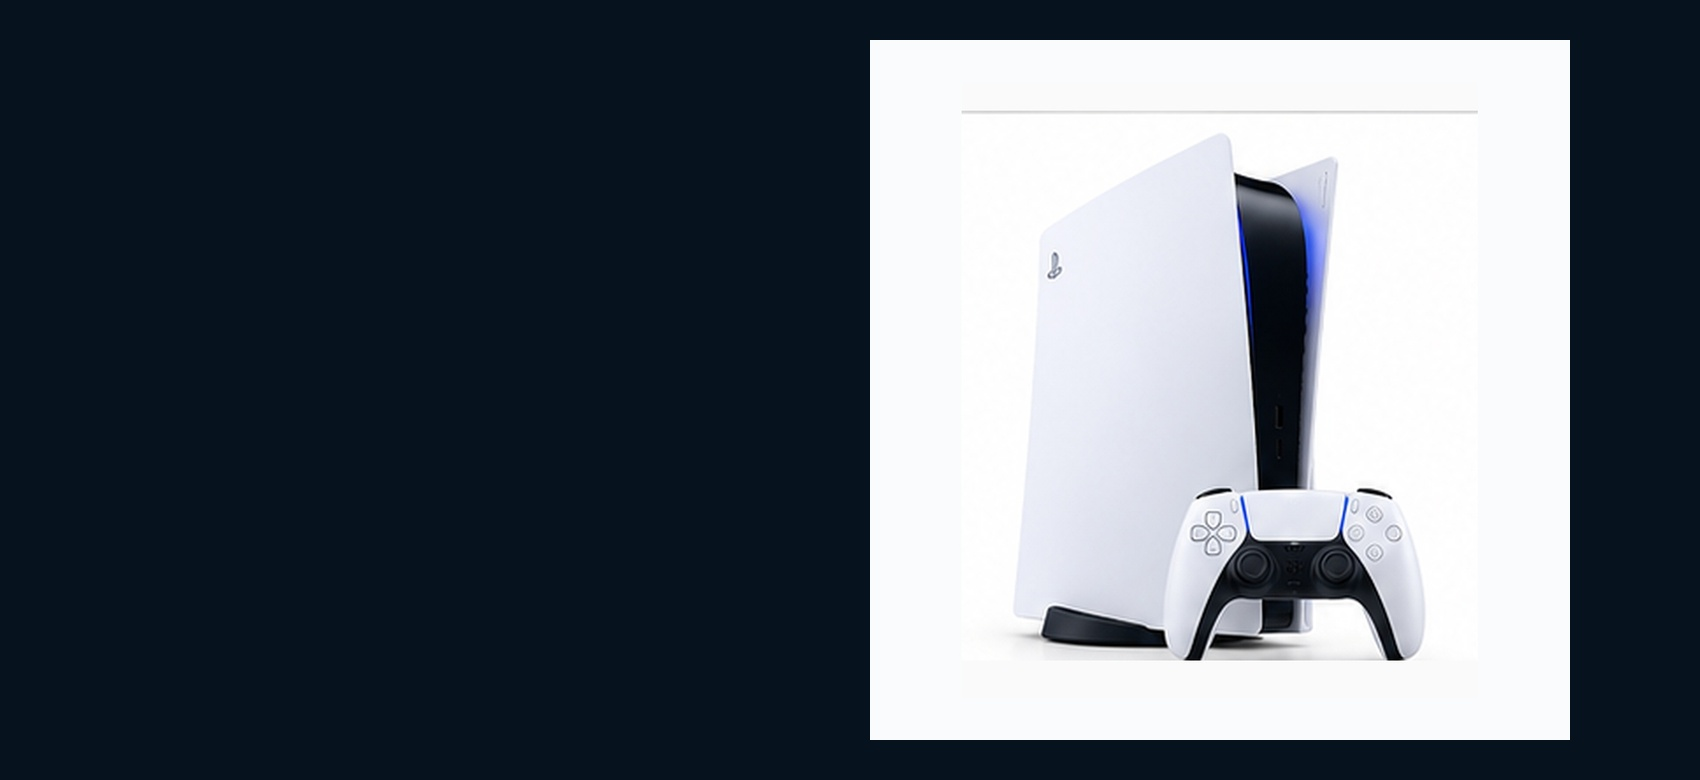
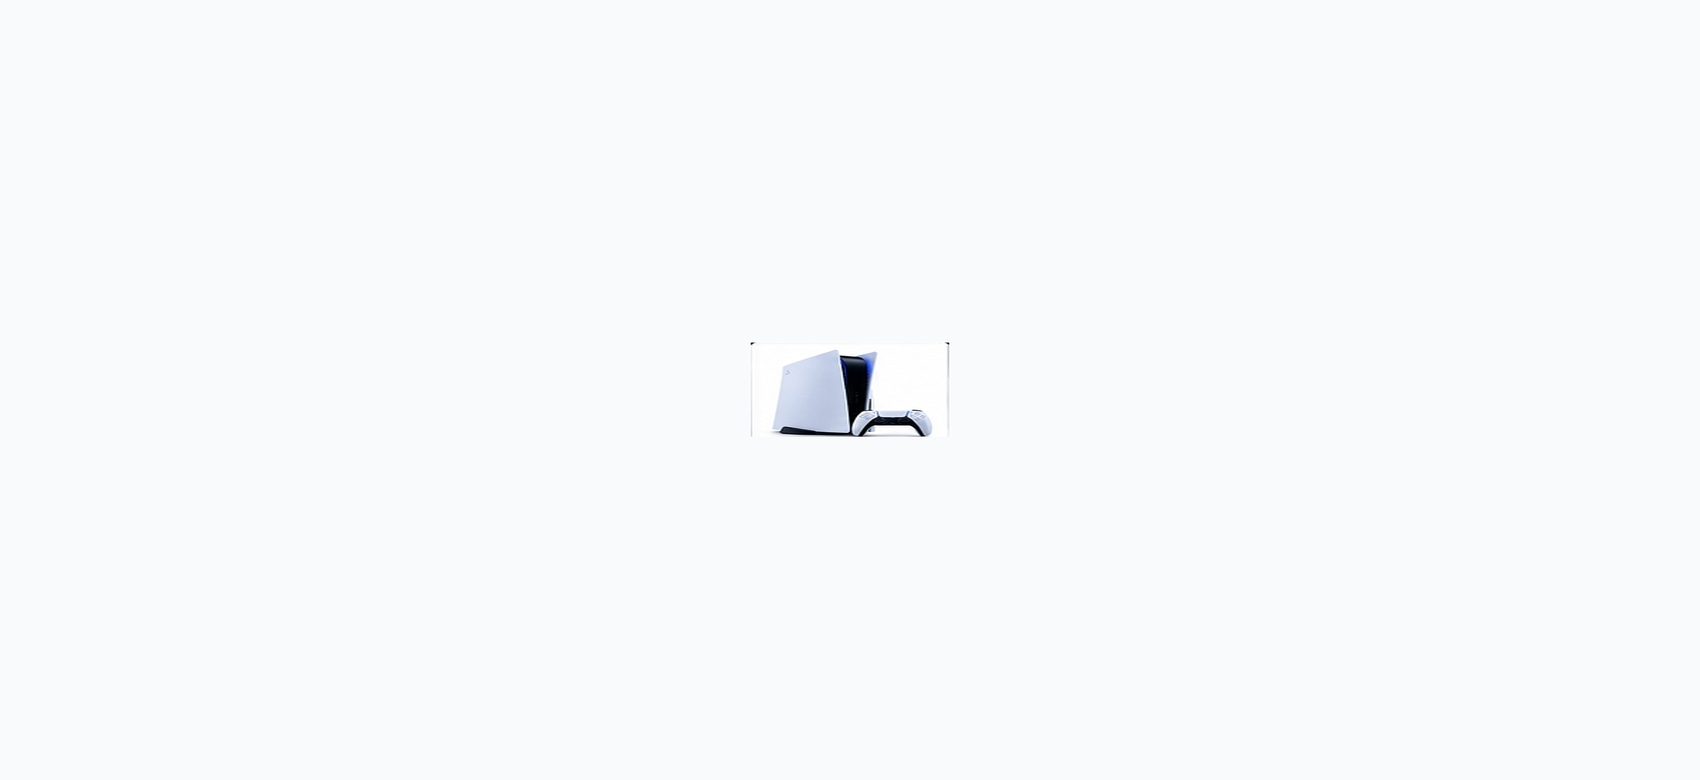
Add files via upload

diff --git a/index.html b/index.html
@@ -1,8 +1,8 @@
 <!doctype html><html lang="en"><head><meta charset="utf-8"><meta name="viewport" content="width=device-width,initial-scale=1"><title>Home | NEXORA GAMES</title><meta name="description" content="NEXORA GAMES — consoles, games, controllers, gaming gear and accessories."><link rel="stylesheet" href="style.css"></head><body><div class="ticker"><span>Free Shipping on Orders Over $50</span><span>Play More. Live Better.</span><span><a href="contact.html">Support</a> · +1 (800) 555-0196 · support@nexoragames.com</span></div><header class="header"><div class="head"><a class="logo" href="index.html"><img src="assets/images/nexora-games-logo.png" alt="NEXORA GAMES"></a><nav><a href="index.html">Home</a><a href="shop.html">Consoles</a><a href="shop.html?cat=Video Games">Games</a><a href="shop.html?cat=Controllers">Controllers</a><a href="shop.html?cat=Accessories">Accessories</a><a href="shop.html?cat=PC Gaming">PC Gaming</a><a href="shop.html?cat=Deals">Deals</a><a href="collections.html">Collections</a><a href="contact.html">Support</a></nav><div class="tools"><div class="search"><input id="search" placeholder="Search games, consoles..."><button>⌕</button></div><a href="wishlist.html">♡</a><a href="cart.html">🛒 <small id="cartCount">0</small></a></div></div></header><main>
 <section class="hero"><div class="hero-copy"><div class="eyebrow">PLAY MORE. LIVE BETTER.</div><h1>Next Level<br><em>Gaming Awaits.</em></h1><p>Consoles, video games, controllers, accessories, and everything you need for the way you play.</p><div class="actions"><a class="btn" href="shop.html">Shop Now →</a><a class="outline" href="shop.html?cat=Deals">Explore Deals</a></div><div class="trust"><span>Free Shipping $50+</span><span>Secure Payment</span><span>24/7 Support</span><span>Easy Returns</span></div></div><div class="hero-image"><img src="assets/images/hero.jpg" alt="NEXORA GAMES gaming setup"></div></section>
-<section class="category-section"><div class="section-head"><div><div class="eyebrow">SHOP BY CATEGORY</div><h2>Everything gamers need.</h2><p>From consoles and games to racing, PC, streaming, and accessories.</p></div><a class="text-link" href="shop.html">View All →</a></div><div class="category-grid"><a class="cat" href="shop.html?cat=Consoles"><img src="assets/images/category-1.jpg" alt="Consoles"><strong>Consoles</strong><span>Next-gen systems</span></a><a class="cat" href="shop.html?cat=Video Games"><img src="assets/images/category-2.jpg" alt="Video Games"><strong>Video Games</strong><span>New worlds</span></a><a class="cat" href="shop.html?cat=Controllers"><img src="assets/images/category-3.jpg" alt="Controllers"><strong>Controllers</strong><span>Play your way</span></a><a class="cat" href="shop.html?cat=Headsets"><img src="assets/images/category-4.jpg" alt="Headsets"><strong>Headsets</strong><span>Immersive audio</span></a><a class="cat" href="shop.html?cat=PC Gaming"><img src="assets/images/category-5.jpg" alt="PC Gaming"><strong>PC Gaming</strong><span>Build your rig</span></a><a class="cat" href="shop.html?cat=Racing"><img src="assets/images/category-6.jpg" alt="Racing"><strong>Racing</strong><span>Drive harder</span></a><a class="cat" href="shop.html?cat=Streaming"><img src="assets/images/category-7.jpg" alt="Streaming"><strong>Streaming</strong><span>Create more</span></a><a class="cat" href="shop.html?cat=Accessories"><img src="assets/images/category-8.jpg" alt="Accessories"><strong>Accessories</strong><span>Level up</span></a></div></section>
-<section class="promo-row"><a href="shop.html?cat=Consoles" class="promo"><img src="assets/images/product-1.jpg" alt="Consoles"><div><span>CONSOLES</span><h3>Start your next generation.</h3><small>Shop consoles →</small></div></a><a href="shop.html?cat=Video Games" class="promo"><img src="assets/images/product-6.jpg" alt="Video games"><div><span>GAMES</span><h3>Discover your next world.</h3><small>Shop games →</small></div></a><a href="shop.html?cat=Accessories" class="promo"><img src="assets/images/product-7.jpg" alt="Accessories"><div><span>ACCESSORIES</span><h3>Level up your setup.</h3><small>Shop accessories →</small></div></a></section>
-<section class="best"><div class="section-head"><div><div class="eyebrow">FEATURED PRODUCTS</div><h2>Popular right now.</h2><p>Gaming essentials selected for the next session.</p></div><a class="text-link" href="products.html">View All Products →</a></div><div class="product-grid"><article class="card"><span class="badge">BEST SELLER</span><button class="wish" onclick="toggleWish(0)">♡</button><a class="photo" href="product.html?id=0"><img src="assets/images/product-1.jpg" alt="NEXORA PS5 Console" loading="lazy"></a><div class="info"><div class="rating">★★★★★ <span>(61)</span></div><h3>NEXORA PS5 Console</h3><div class="meta">PlayStation · Next-gen gaming</div><div class="row"><strong>$499.99</strong><button onclick="addToCart(0)">Add to Cart</button></div></div></article><article class="card"><span class="badge">NEW</span><button class="wish" onclick="toggleWish(1)">♡</button><a class="photo" href="product.html?id=1"><img src="assets/images/product-2.jpg" alt="NEXORA Xbox Series X" loading="lazy"></a><div class="info"><div class="rating">★★★★★ <span>(104)</span></div><h3>NEXORA Xbox Series X</h3><div class="meta">Xbox · Power your dreams</div><div class="row"><strong>$499.99</strong><button onclick="addToCart(1)">Add to Cart</button></div></div></article><article class="card"><span class="badge">POPULAR</span><button class="wish" onclick="toggleWish(2)">♡</button><a class="photo" href="product.html?id=2"><img src="assets/images/product-3.jpg" alt="NEXORA Switch OLED" loading="lazy"></a><div class="info"><div class="rating">★★★★★ <span>(147)</span></div><h3>NEXORA Switch OLED</h3><div class="meta">Nintendo · Play anywhere</div><div class="row"><strong>$349.99</strong><button onclick="addToCart(2)">Add to Cart</button></div></div></article><article class="card"><span class="badge">BEST SELLER</span><button class="wish" onclick="toggleWish(3)">♡</button><a class="photo" href="product.html?id=3"><img src="assets/images/product-4.jpg" alt="NEXORA Handheld Pro" loading="lazy"></a><div class="info"><div class="rating">★★★★★ <span>(190)</span></div><h3>NEXORA Handheld Pro</h3><div class="meta">Handheld · Portable gaming</div><div class="row"><strong>$299.99</strong><button onclick="addToCart(3)">Add to Cart</button></div></div></article><article class="card"><span class="badge">NEW</span><button class="wish" onclick="toggleWish(4)">♡</button><a class="photo" href="product.html?id=4"><img src="assets/images/product-5.jpg" alt="Console Starter Bundle" loading="lazy"></a><div class="info"><div class="rating">★★★★★ <span>(233)</span></div><h3>Console Starter Bundle</h3><div class="meta">Multi · Ready to play</div><div class="row"><strong>$549.99</strong><button onclick="addToCart(4)">Add to Cart</button></div></div></article><article class="card"><span class="badge">POPULAR</span><button class="wish" onclick="toggleWish(5)">♡</button><a class="photo" href="product.html?id=5"><img src="assets/images/product-6.jpg" alt="Elden Ring" loading="lazy"></a><div class="info"><div class="rating">★★★★★ <span>(276)</span></div><h3>Elden Ring</h3><div class="meta">PS5 · Action RPG</div><div class="row"><strong>$59.99</strong><button onclick="addToCart(5)">Add to Cart</button></div></div></article><article class="card"><span class="badge">BEST SELLER</span><button class="wish" onclick="toggleWish(6)">♡</button><a class="photo" href="product.html?id=6"><img src="assets/images/product-7.jpg" alt="Adventure Quest Deluxe" loading="lazy"></a><div class="info"><div class="rating">★★★★★ <span>(319)</span></div><h3>Adventure Quest Deluxe</h3><div class="meta">Xbox · Open-world adventure</div><div class="row"><strong>$69.99</strong><button onclick="addToCart(6)">Add to Cart</button></div></div></article><article class="card"><span class="badge">NEW</span><button class="wish" onclick="toggleWish(7)">♡</button><a class="photo" href="product.html?id=7"><img src="assets/images/product-8.jpg" alt="Galaxy Racers" loading="lazy"></a><div class="info"><div class="rating">★★★★★ <span>(362)</span></div><h3>Galaxy Racers</h3><div class="meta">Nintendo · Arcade racing</div><div class="row"><strong>$49.99</strong><button onclick="addToCart(7)">Add to Cart</button></div></div></article></div></section>
-<section class="setups"><div><div class="eyebrow">BUILD YOUR SETUP</div><h2>Choose your<br><em>way to play.</em></h2><p>Console gamer, PC player, creator, or racing fan—build a setup that fits your style.</p><div class="setup-links"><a href="collections.html">Console Setup →</a><a href="collections.html">PC Setup →</a><a href="collections.html">Streaming Setup →</a><a href="collections.html">Racing Setup →</a></div></div><div class="setup-image"><img src="assets/images/product-4.jpg" alt="Gaming setup gear"></div></section>
+<section class="category-section"><div class="section-head"><div><div class="eyebrow">SHOP BY CATEGORY</div><h2>Everything gamers need.</h2><p>From consoles and games to racing, PC, streaming, and accessories.</p></div><a class="text-link" href="shop.html">View All →</a></div><div class="category-grid"><a class="cat" href="shop.html?cat=Consoles"><img src="assets/images/photo-12.jpg" alt="Consoles"><strong>Consoles</strong><span>Next-gen systems</span></a><a class="cat" href="shop.html?cat=Video Games"><img src="assets/images/photo-13.jpg" alt="Video Games"><strong>Video Games</strong><span>New worlds</span></a><a class="cat" href="shop.html?cat=Controllers"><img src="assets/images/photo-14.jpg" alt="Controllers"><strong>Controllers</strong><span>Play your way</span></a><a class="cat" href="shop.html?cat=Headsets"><img src="assets/images/photo-15.jpg" alt="Headsets"><strong>Headsets</strong><span>Immersive audio</span></a><a class="cat" href="shop.html?cat=PC Gaming"><img src="assets/images/photo-16.jpg" alt="PC Gaming"><strong>PC Gaming</strong><span>Build your rig</span></a><a class="cat" href="shop.html?cat=Racing"><img src="assets/images/photo-17.jpg" alt="Racing"><strong>Racing</strong><span>Drive harder</span></a><a class="cat" href="shop.html?cat=Streaming"><img src="assets/images/photo-18.jpg" alt="Streaming"><strong>Streaming</strong><span>Create more</span></a><a class="cat" href="shop.html?cat=Accessories"><img src="assets/images/photo-19.jpg" alt="Accessories"><strong>Accessories</strong><span>Level up</span></a></div></section>
+<section class="promo-row"><a href="shop.html?cat=Consoles" class="promo"><img src="assets/images/photo-1.jpg" alt="Consoles"><div><span>CONSOLES</span><h3>Start your next generation.</h3><small>Shop consoles →</small></div></a><a href="shop.html?cat=Video Games" class="promo"><img src="assets/images/photo-1.jpg" alt="Video games"><div><span>GAMES</span><h3>Discover your next world.</h3><small>Shop games →</small></div></a><a href="shop.html?cat=Accessories" class="promo"><img src="assets/images/photo-1.jpg" alt="Accessories"><div><span>ACCESSORIES</span><h3>Level up your setup.</h3><small>Shop accessories →</small></div></a></section>
+<section class="best"><div class="section-head"><div><div class="eyebrow">FEATURED PRODUCTS</div><h2>Popular right now.</h2><p>Gaming essentials selected for the next session.</p></div><a class="text-link" href="products.html">View All Products →</a></div><div class="product-grid"><article class="card"><span class="badge">BEST SELLER</span><button class="wish" onclick="toggleWish(0)">♡</button><a class="photo" href="product.html?id=0"><img src="assets/images/photo-1.jpg" alt="NEXORA PS5 Console" loading="lazy"></a><div class="info"><div class="rating">★★★★★ <span>(61)</span></div><h3>NEXORA PS5 Console</h3><div class="meta">PlayStation · Next-gen gaming</div><div class="row"><strong>$499.99</strong><button onclick="addToCart(0)">Add to Cart</button></div></div></article><article class="card"><span class="badge">NEW</span><button class="wish" onclick="toggleWish(1)">♡</button><a class="photo" href="product.html?id=1"><img src="assets/images/photo-1.jpg" alt="NEXORA Xbox Series X" loading="lazy"></a><div class="info"><div class="rating">★★★★★ <span>(104)</span></div><h3>NEXORA Xbox Series X</h3><div class="meta">Xbox · Power your dreams</div><div class="row"><strong>$499.99</strong><button onclick="addToCart(1)">Add to Cart</button></div></div></article><article class="card"><span class="badge">POPULAR</span><button class="wish" onclick="toggleWish(2)">♡</button><a class="photo" href="product.html?id=2"><img src="assets/images/photo-1.jpg" alt="NEXORA Switch OLED" loading="lazy"></a><div class="info"><div class="rating">★★★★★ <span>(147)</span></div><h3>NEXORA Switch OLED</h3><div class="meta">Nintendo · Play anywhere</div><div class="row"><strong>$349.99</strong><button onclick="addToCart(2)">Add to Cart</button></div></div></article><article class="card"><span class="badge">BEST SELLER</span><button class="wish" onclick="toggleWish(3)">♡</button><a class="photo" href="product.html?id=3"><img src="assets/images/photo-1.jpg" alt="NEXORA Handheld Pro" loading="lazy"></a><div class="info"><div class="rating">★★★★★ <span>(190)</span></div><h3>NEXORA Handheld Pro</h3><div class="meta">Handheld · Portable gaming</div><div class="row"><strong>$299.99</strong><button onclick="addToCart(3)">Add to Cart</button></div></div></article><article class="card"><span class="badge">NEW</span><button class="wish" onclick="toggleWish(4)">♡</button><a class="photo" href="product.html?id=4"><img src="assets/images/photo-1.jpg" alt="Console Starter Bundle" loading="lazy"></a><div class="info"><div class="rating">★★★★★ <span>(233)</span></div><h3>Console Starter Bundle</h3><div class="meta">Multi · Ready to play</div><div class="row"><strong>$549.99</strong><button onclick="addToCart(4)">Add to Cart</button></div></div></article><article class="card"><span class="badge">POPULAR</span><button class="wish" onclick="toggleWish(5)">♡</button><a class="photo" href="product.html?id=5"><img src="assets/images/photo-1.jpg" alt="Elden Ring" loading="lazy"></a><div class="info"><div class="rating">★★★★★ <span>(276)</span></div><h3>Elden Ring</h3><div class="meta">PS5 · Action RPG</div><div class="row"><strong>$59.99</strong><button onclick="addToCart(5)">Add to Cart</button></div></div></article><article class="card"><span class="badge">BEST SELLER</span><button class="wish" onclick="toggleWish(6)">♡</button><a class="photo" href="product.html?id=6"><img src="assets/images/photo-1.jpg" alt="Adventure Quest Deluxe" loading="lazy"></a><div class="info"><div class="rating">★★★★★ <span>(319)</span></div><h3>Adventure Quest Deluxe</h3><div class="meta">Xbox · Open-world adventure</div><div class="row"><strong>$69.99</strong><button onclick="addToCart(6)">Add to Cart</button></div></div></article><article class="card"><span class="badge">NEW</span><button class="wish" onclick="toggleWish(7)">♡</button><a class="photo" href="product.html?id=7"><img src="assets/images/photo-1.jpg" alt="Galaxy Racers" loading="lazy"></a><div class="info"><div class="rating">★★★★★ <span>(362)</span></div><h3>Galaxy Racers</h3><div class="meta">Nintendo · Arcade racing</div><div class="row"><strong>$49.99</strong><button onclick="addToCart(7)">Add to Cart</button></div></div></article></div></section>
+<section class="setups"><div><div class="eyebrow">BUILD YOUR SETUP</div><h2>Choose your<br><em>way to play.</em></h2><p>Console gamer, PC player, creator, or racing fan—build a setup that fits your style.</p><div class="setup-links"><a href="collections.html">Console Setup →</a><a href="collections.html">PC Setup →</a><a href="collections.html">Streaming Setup →</a><a href="collections.html">Racing Setup →</a></div></div><div class="setup-image"><img src="assets/images/photo-1.jpg" alt="Gaming setup gear"></div></section>
 <section class="support"><div><div class="eyebrow">DEDICATED SUPPORT</div><h2>Need help before you buy?</h2><p>Questions about compatibility, accessories, orders, shipping, or returns?</p><strong>support@nexoragames.com · +1 (800) 555-0196 · Mon–Fri, 9 AM–6 PM</strong></div><a class="btn" href="contact.html">Contact Support →</a></section>
 </main><footer class="footer"><div class="foot-grid"><div><img class="footer-logo" src="assets/images/nexora-games-logo.png" alt="NEXORA GAMES"><p>Play More. Live Better.</p><p>Consoles, video games, accessories, PC gear, and complete gaming setups.</p></div><div><h4>SHOP</h4><a href="shop.html">All Products</a><a href="shop.html?cat=Consoles">Consoles</a><a href="shop.html?cat=Video Games">Games</a><a href="shop.html?cat=Controllers">Controllers</a><a href="shop.html?cat=PC Gaming">PC Gaming</a><a href="shop.html?cat=Deals">Deals</a></div><div><h4>CUSTOMER SERVICE</h4><a href="contact.html">Contact Support</a><a href="faq.html">FAQ</a><a href="shipping.html">Shipping</a><a href="returns.html">Returns & Refunds</a><a href="guides.html">Gaming Guides</a></div><div><h4>CONTACT</h4><p>support@nexoragames.com<br>+1 (800) 555-0196<br>United States<br>Mon–Fri, 9 AM–6 PM</p></div><div><h4>NEXORA COMMUNITY</h4><p>New releases, gaming news, setup ideas, and exclusive offers.</p><div class="newsletter"><input placeholder="Your email address"><button>Subscribe</button></div></div></div><div class="bottom">© 2026 NEXORA GAMES. All rights reserved.<span>Privacy Policy · Terms · Sitemap</span></div></footer><script src="app.js"></script></body></html>

diff --git a/style.css b/style.css
@@ -102,3 +102,31 @@
   object-fit:contain !important;
   object-position:center center !important;
 }
+
+/* V5 HIGH-QUALITY PRODUCT IMAGE SYSTEM */
+.photo,.product-image{
+  width:100%;
+  aspect-ratio:1/1;
+  display:flex;
+  align-items:center;
+  justify-content:center;
+  overflow:hidden;
+  background:#f5f6f8;
+}
+.photo img,.product-image img{
+  width:100%;
+  height:100%;
+  display:block;
+  object-fit:contain !important;
+  object-position:center center !important;
+  padding:0 !important;
+}
+.cat img,.category-card img{
+  width:100%;
+  height:100%;
+  aspect-ratio:1/1;
+  display:block;
+  object-fit:contain !important;
+  object-position:center center !important;
+  padding:0 !important;
+}

diff --git a/README.md b/README.md
@@ -31,3 +31,8 @@ The catalog image library was rebuilt from clean product-only photography. Each 
 ## V4 Image Rebuild
 
 Every catalog image is now a dedicated single-product photograph, tightly framed around the product and placed in a square asset. Product cards use centered `object-fit: contain` so one product appears per frame without repeated collages, webpage UI, or oversized blank margins.
+
+
+## V5 Image Quality Upgrade
+
+The catalog uses dedicated, single-product photography assets with tight framing. Each image is a 1200×1200 square and is rendered with centered `object-fit: contain`, keeping one complete product per frame without webpage UI, duplicate cards, prices, ratings, buttons, or other embedded interface elements.
